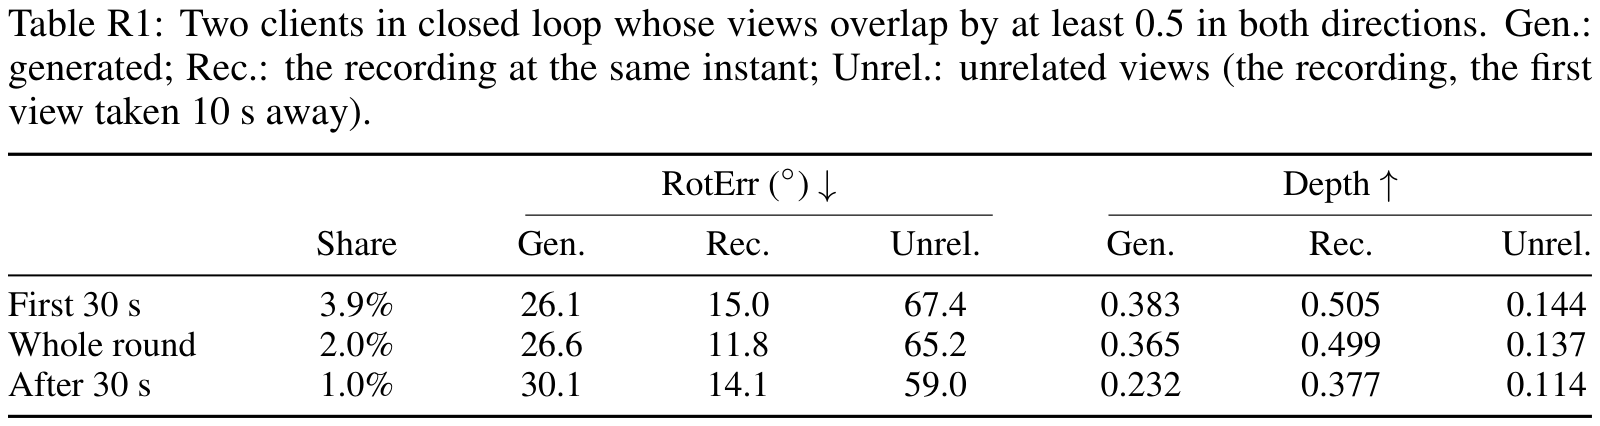
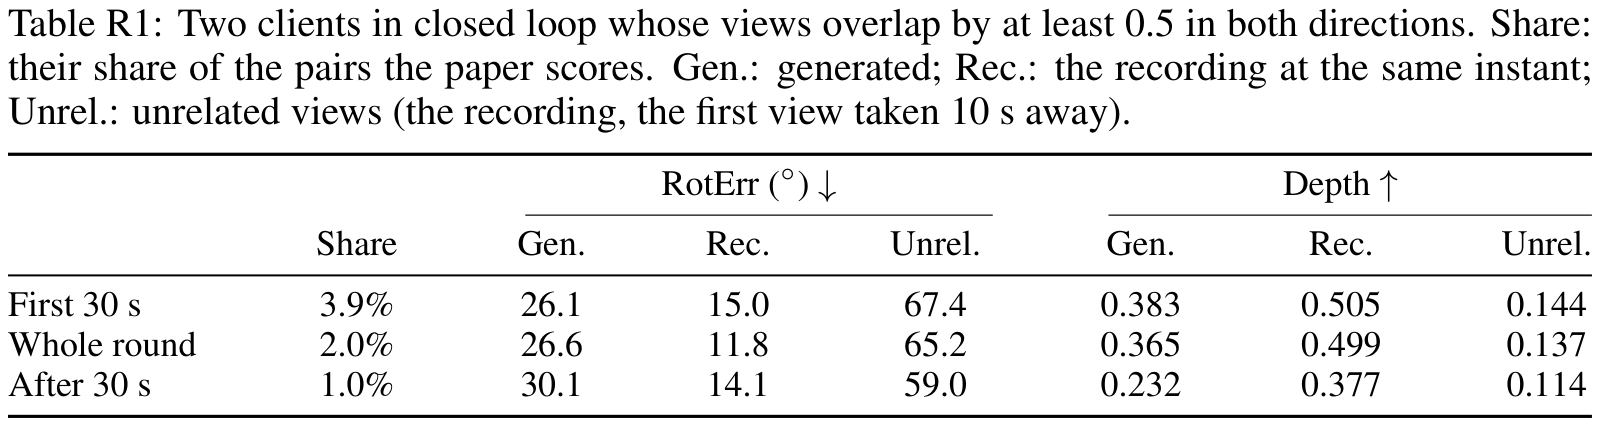
Same-scene pairs only in the consistency section

Changed region(s): [[0.0, 0.0, 1.0, 0.3052]]

diff --git a/LviJ/README.md b/LviJ/README.md
@@ -2,7 +2,7 @@
 
 Thank you for noting that most rendering comparisons use recorded positions and that predicted-state rendering was previously evaluated only in 10-s windows. Unless marked as using the state model, consistency results use clients' recorded positions, as in the paper's main tables. Table 4a also evaluates five closed-loop clients over whole rounds without position resets; Table R4 tracks Rendered and Unmatched every 10 s through 100 s. Rates and latency below are measured on the full system.
 
-**W1 & Q2 — Whole-round consistency with predicted states, after 30 s, and beyond position.**
+**W1 & Q2 — Consistency with predicted states in the same scene, after 30 s, and beyond position.**
 - *Why RotErr 55.6° and depth 0.120 are low (new, Table R1, Table R2).* These measures score pairs co-visible in the recording. Closed-loop clients leave the recorded trajectories (App. G), so after 30 s 82.7% of those pairs look at different places. On pairs that stay in the same scene (views overlap ≥ 0.5 both ways, Table R1), RotErr is 30.1° after 30 s (26.6° over the whole round) and depth 0.232 (0.365), against 59.0° and 0.114 for unrelated views. We therefore read the paired gain: scene state raises depth agreement from 0.092 to 0.120 (Table 19), and Mat. Pix. by 9.6–22.1K and Inliers by 7.3–10.1 in every overlap group.
 - *Position (Table R3).* On generated video, re-localizing each player every block keeps the state model's error bounded: 2.6 body widths at 50–60 s, against 11.4 for a MultiGen-style update.
 - *By elapsed time (new, Table R4).* Five closed-loop clients, whole rounds, nothing reset: Rendered is 0.75 in the first 10 s and 0.64–0.80 in every later 10 s up to 100 s; Unmatched 0.05, then 0.13–0.27.
